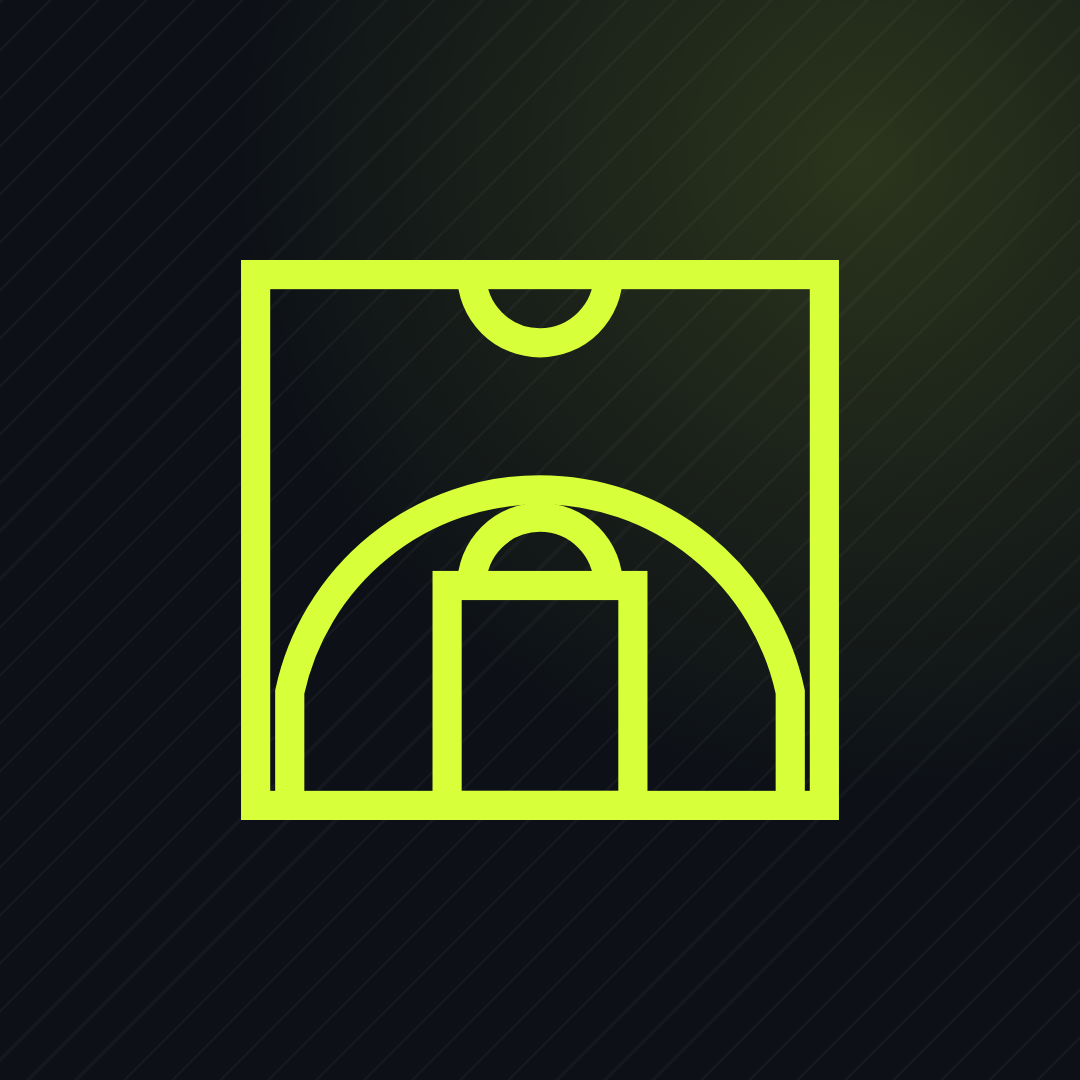
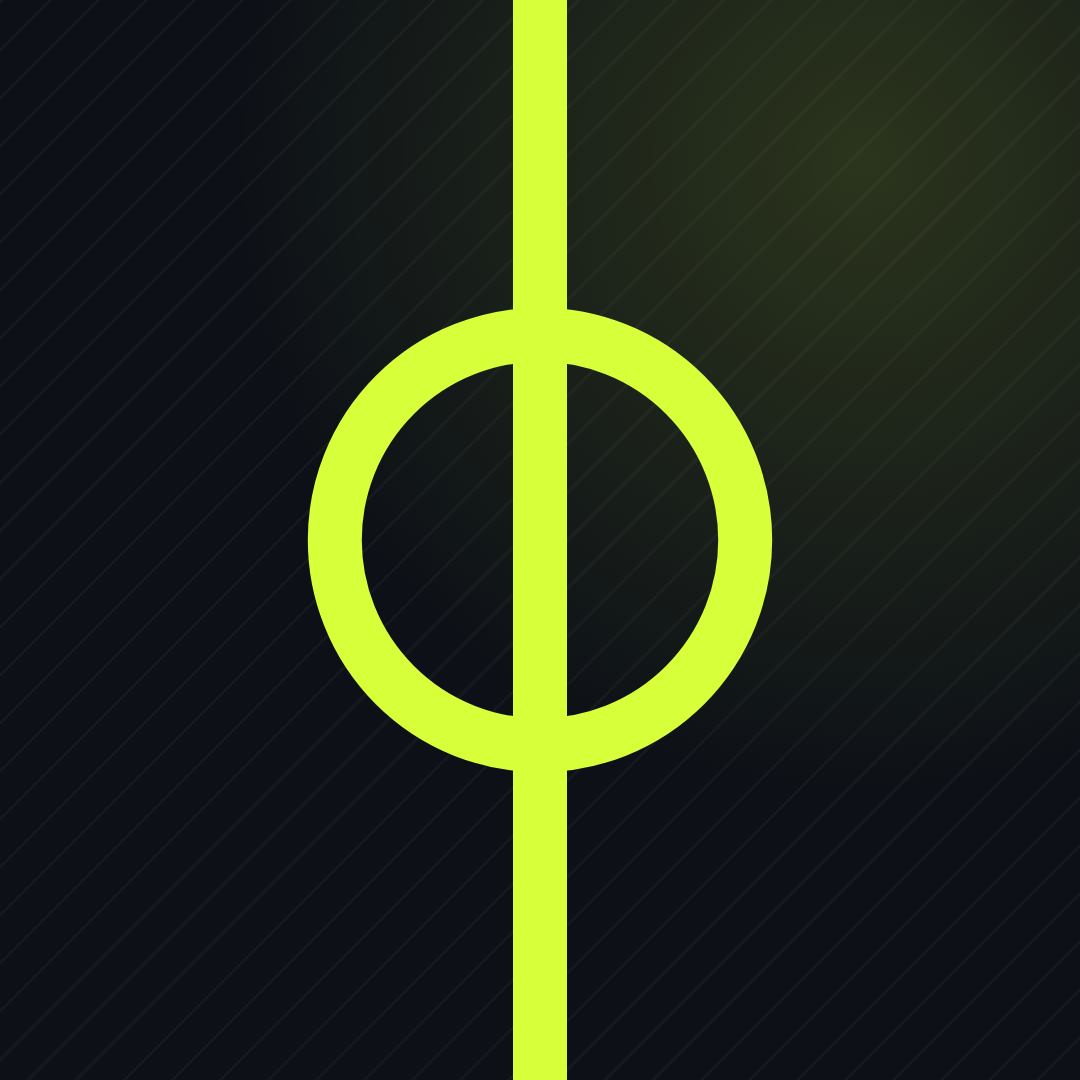
Brand: centre-court mark (halfway line + centre circle)
Avatar: line runs edge to edge so the circle crop acts as the court edge.
Lockup: lime disc with line and circle cut out, so the line never has free
ends (which read as the Greek letter phi). Half court kept as MARK = "court".

Changed region(s): [[0.2139, 0.0, 0.7944, 1.0]]

diff --git a/scripts/render_brand.py b/scripts/render_brand.py
@@ -44,6 +44,34 @@ def court(color, size=None, stroke=4):
 </svg>"""
 
 
+def centre_disc(color, size=None, uid="c"):
+    """Centre-court badge: a solid disc with the halfway line and the centre circle cut
+    out (transparent), so it works on any background. The line ends at the disc edge;
+    with free ends the mark reads as the Greek letter phi."""
+    dim = f' width="{size}" height="{size}"' if size else ""
+    return f"""<svg xmlns="http://www.w3.org/2000/svg" viewBox="0 0 100 100"{dim}>
+  <mask id="{uid}"><rect width="100" height="100" fill="#fff"/>
+    <g fill="none" stroke="#000" stroke-width="6">
+      <line x1="50" y1="0" x2="50" y2="100"/><circle cx="50" cy="50" r="20"/>
+    </g></mask>
+  <circle cx="50" cy="50" r="48" fill="{color}" mask="url(#{uid})"/>
+</svg>"""
+
+
+def centre_avatar(color):
+    """Profile picture: halfway line edge to edge with the centre circle. The platform's
+    circle crop acts as the court edge, which is why the line runs off the canvas."""
+    return f"""<svg xmlns="http://www.w3.org/2000/svg" viewBox="0 0 100 100" width="1080" height="1080">
+  <g fill="none" stroke="{color}" stroke-width="5">
+    <line x1="50" y1="0" x2="50" y2="100"/><circle cx="50" cy="50" r="19"/>
+  </g>
+</svg>"""
+
+
+# Which mark the assets use: "centre" (halfway line + centre circle) or "court" (half court).
+MARK = "centre"
+
+
 CSS = f"""
 @font-face {{ font-family: F; font-weight: 900; src: url({FONTS}/FiraSansExtraCondensed-Black.ttf); }}
 @font-face {{ font-family: F; font-weight: 700; src: url({FONTS}/FiraSansExtraCondensed-Bold.ttf); }}
@@ -61,14 +89,18 @@ svg {{ display: block; position: relative; }}
 
 
 def lockup(lang, font_px, color, mark_color):
-    # Court mark ~ cap height wide, with a heavier stroke so it holds up next to Black type.
-    return f"""<div class="lockup" style="gap:{round(font_px * 0.18)}px">{court(mark_color, round(font_px * 0.8), 6)}
+    # Mark ~ cap height, so it reads as an equal partner to the name. The court gets a
+    # heavier stroke so it holds up next to Black type.
+    size = round(font_px * 0.8)
+    mark = centre_disc(mark_color, size, "w") if MARK == "centre" else court(mark_color, size, 6)
+    return f"""<div class="lockup" style="gap:{round(font_px * 0.18)}px">{mark}
 <div class="word" style="font-size:{font_px}px; color:{color}">{LANGS[lang]['name']}</div></div>"""
 
 
 def avatar():
-    # One avatar for every language. The court's corners stay well inside the circle crop.
-    return CSS % dict(w=1080, h=1080), court(C["accent"], 600), 1080, 1080, True
+    # One avatar for every language. The half court's corners stay well inside the circle crop.
+    mark = centre_avatar(C["accent"]) if MARK == "centre" else court(C["accent"], 600)
+    return CSS % dict(w=1080, h=1080), mark, 1080, 1080, True
 
 
 def wordmark(lang, mode):
@@ -105,9 +137,11 @@ def shoot(css, body, w, h, on_ink, out, lang="en"):
 
 def main():
     OUT.mkdir(parents=True, exist_ok=True)
-    (OUT / "court.svg").write_text(court(C["accent"]))
-    (OUT / "court-mono.svg").write_text(court(C["bg"]))
-    print("assets/brand/court.svg\nassets/brand/court-mono.svg")
+    svgs = {"court.svg": court(C["accent"]), "court-mono.svg": court(C["bg"]),
+            "centre.svg": centre_disc(C["accent"]), "centre-mono.svg": centre_disc(C["bg"])}
+    for name, svg in svgs.items():
+        (OUT / name).write_text(svg)
+        print(f"assets/brand/{name}")
     shoot(*avatar(), OUT / "avatar.png")
     for lang in LANGS:
         shoot(*wordmark(lang, "ink"), OUT / f"wordmark-{lang}.png", lang)
